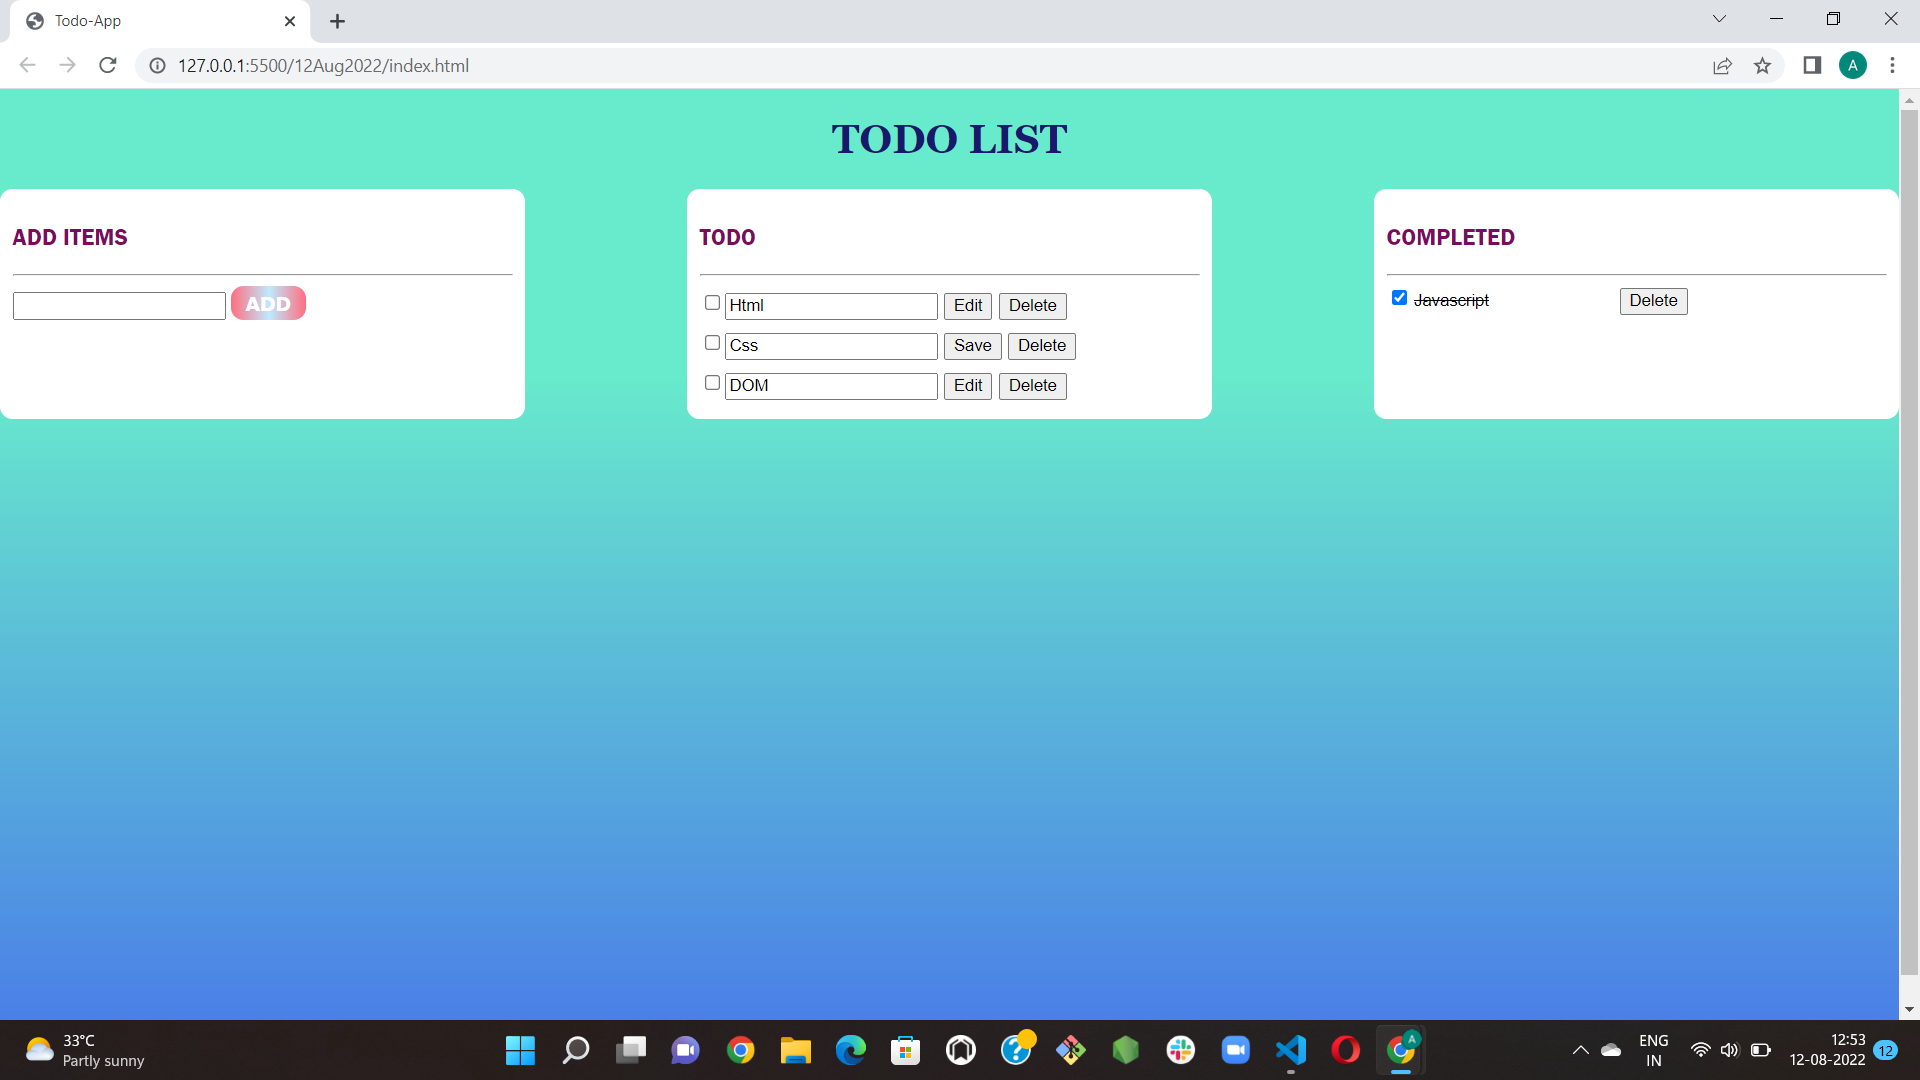
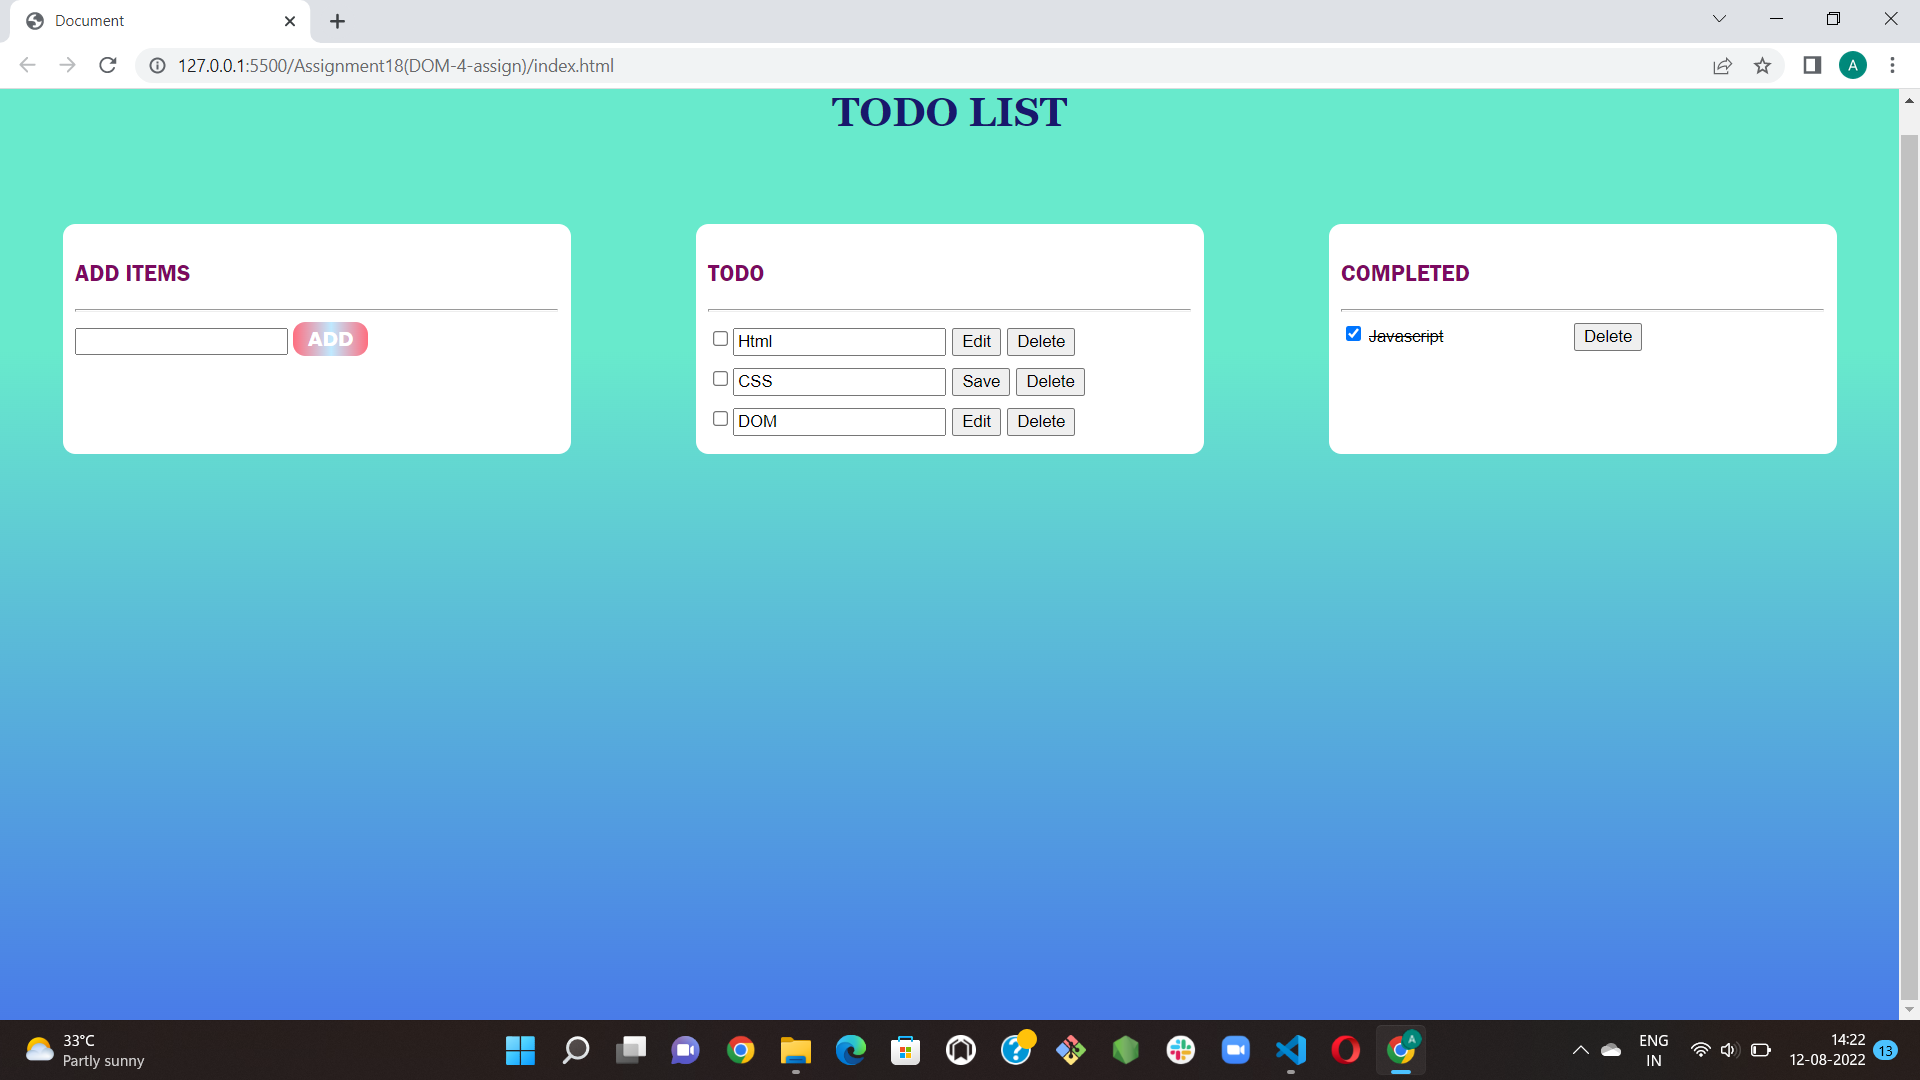
practice

diff --git a/12Aug2022/style.css b/12Aug2022/style.css
@@ -26,6 +26,8 @@ h1{
     border-radius: 10px;
     color: #7b0a61;
     font-family: 'Franklin Gothic Medium', 'Arial Narrow', Arial, sans-serif;
+    margin:50px;
+
 }
 
 .btn{
